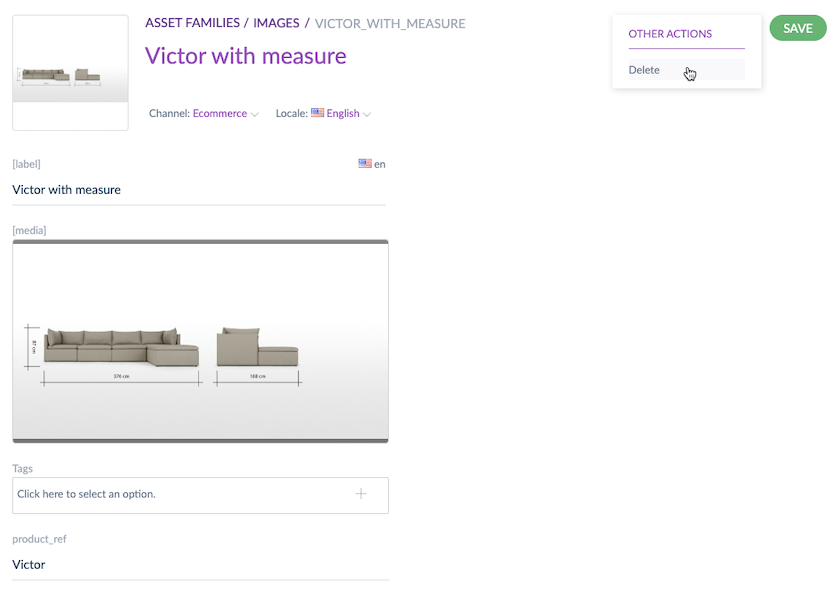
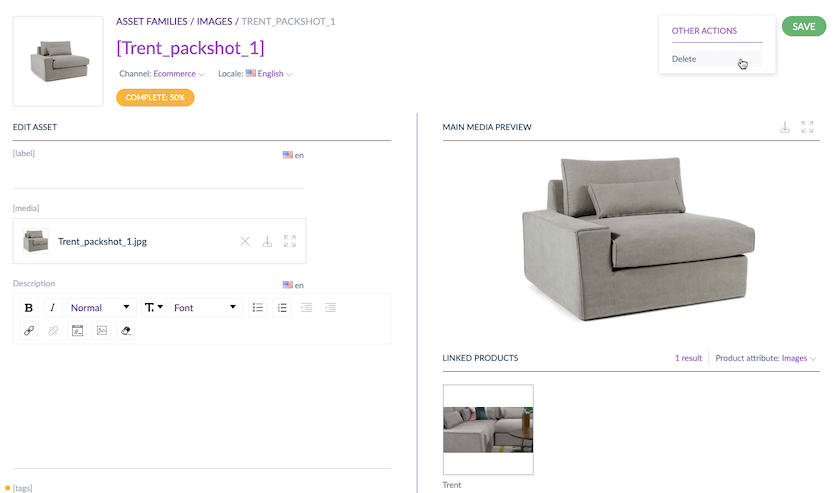
Updated the screenshots and the example

diff --git a/content/md/products-super-power/work-on-your-assets.md b/content/md/products-super-power/work-on-your-assets.md
@@ -13,7 +13,7 @@ Nothing simpler: just go on an asset and add/change the values you want.
 
 Let's take an example.
 
-You are in your `images` asset family, in the `Victor with measures` asset. You want to add the **image file**, a **short description**, and some **tags**. To do that, the only prerequisite is to create those 3 attributes in your `images` asset family. Then, you can add all the content you want in these attributes :wink:
+You are in your `images` asset family, in the `Trent packshot 1` asset. You want to add the **image file**, a **short description**, and some **tags**. To do that, the only prerequisite is to create those 3 attributes in your `images` asset family. Then, you can add all the content you want in these attributes :wink:
 
 :::tips
 If you don't remember how to add attributes to your asset family, you can read [this article](#manage-asset-families.html###Add-an-attribute).
@@ -25,27 +25,24 @@ You can find a **locale and channel switcher** on each asset, meaning that if yo
 ![Assets Locale Switcher](../img/Assets_LocaleSwitcher.png)
 
 # Display the products linked to an asset
-You can see the first products linked to an asset in the `Products` tab directly from an asset.
+You can see at a glance the products that are linked to an asset, directly in the asset edit form, in the `Linked products` section.
 
-To display the 1st products linked to the asset `victor_with_measures`:
-1. Go to the `victor_with_measures` asset
-1. Then click on the `Products` tab
-1. To open a product, just click on it and the product form will open in a new tab.
+![Assets Display Products](../img/Assets_AssetEditForm.png)
 
-![Assets Display Products](../img/Assets_DisplayProducts.png)
+In our example, the asset named `Trent packshot 1` is linked to only one product named `Trent` thanks to the asset collection `Images`. You can click on the product thumbnail to open the product edit form.
 
-In this `Products` tab, the 20 first products linked to an asset (for the selected product attribute) are displayed as well as the total number of products linked ("xx results").
+In the `Linked products` section, the first 10 products linked to the asset (for the selected product attribute) are displayed as well as the total number of products linked ("xx results").
 
-If more than 20 products are linked to the asset, a message is displayed after the last products:
+If more than 10 products are linked to the asset, a message is displayed after the last products:
 
-![Assets Display All Products](../img/Assets_DisplayAllProducts.png)
+![Assets Display All Products](../img/Assets_DisplayProductsMessage.png)
 
-If you want to display all the products linked to an asset, you just have to click on the `View all products` button, it will open the product grid with a filter on the product attribute linked and the `victor_with_measures` value.
+If you want to display all the products linked to an asset, you just have to click on the `View all products` button, it will open the product grid with a filter on the product attribute linked and the asset value (for example `Trent packshot 1`)
 Then, from the product grid, you can search and launch enrichment actions on these products.
 
 ::: info
-If no products are displayed in the `Products` tab, there are two possible reasons:
-1. Your asset family is not linked to a product attribute, you first have to [create a new product attribute](manage-your-attributes.html#create-an-attribute) linked to the asset family.
+If no products are displayed in the `Linked products` section, there are two possible reasons:
+1. Your asset family is not linked to a product attribute, so you first have to [create a new product attribute](manage-your-attributes.html#create-an-attribute) linked to the asset family.
 1. The selected product attribute doesn't have any product linked to the asset. You first have to link products to the asset.
 :::
 
@@ -61,7 +58,7 @@ In the assets, several indicators show you the status of your completeness and w
 - **Yellow bullet points** in front of each missing required attribute, showing that you have to complete this attribute to improve the completeness.
 - The **completeness percentage** in the header of the asset informs you of the completeness level.   
 
-![Assets Completeness](../img/Assets_Completeness.png)
+![Assets Completeness](../img/Assets_AssetCompleteness.png)
 
 You also have the completeness indicator directly on the asset thumbnail in the library.
 
